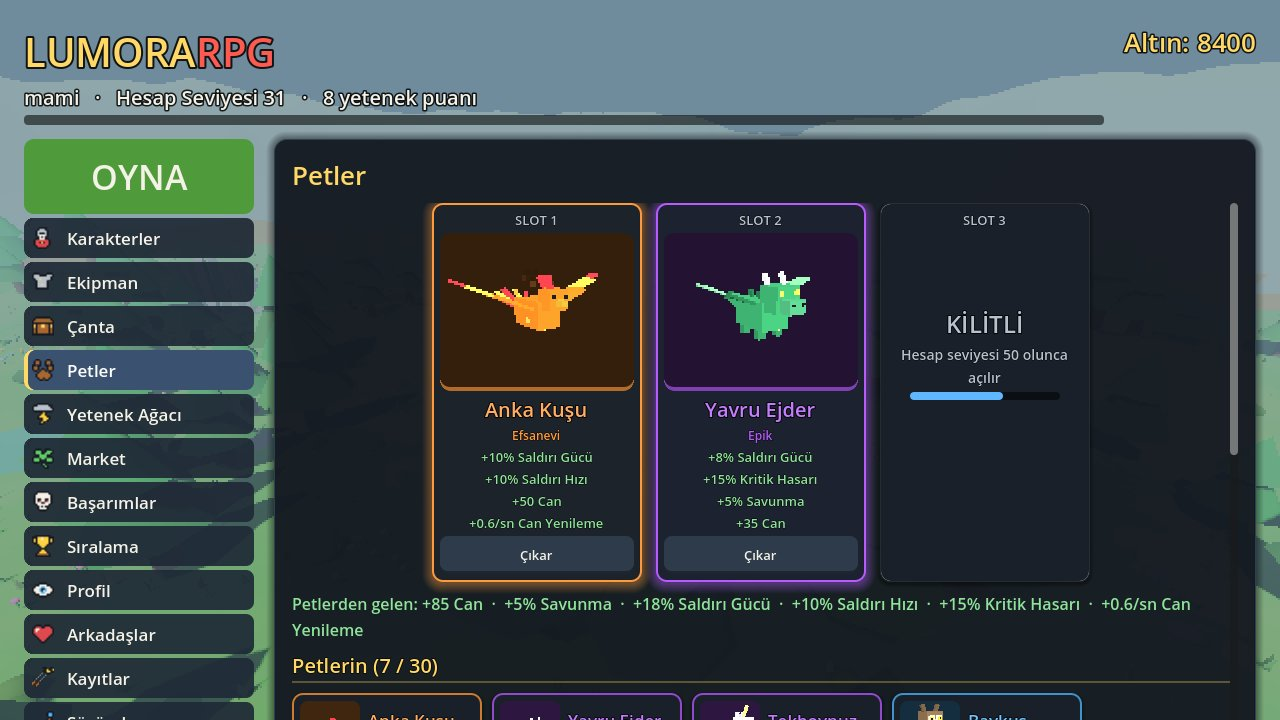
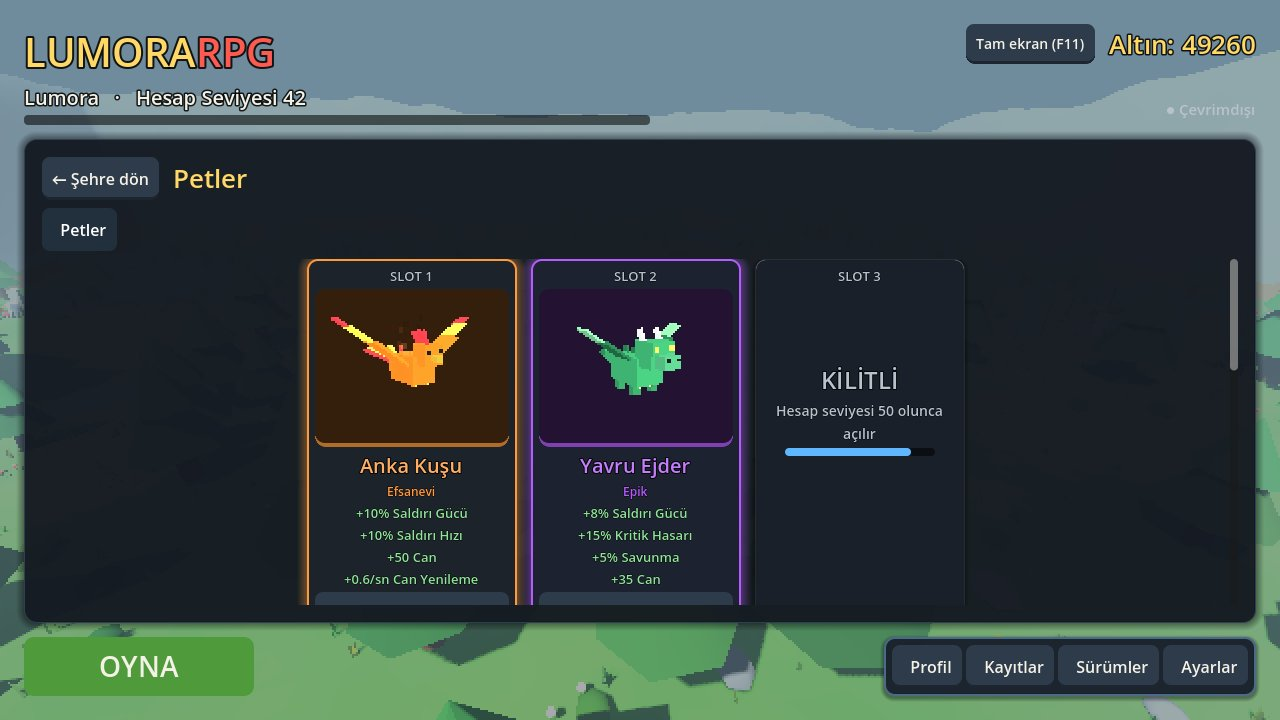
README: v0.66 özellikleri ve yeni ekran görüntüleri

diff --git a/README.md b/README.md
@@ -27,60 +27,85 @@ Bir karakter seçip açık bir haritaya iniyorsun; canavarlar her yönden gelir,
 ## Ekran görüntüleri
 
 <p align="center">
-  <img src="docs/screenshots/oyun.jpg" alt="Oyun içi: büyücü, petler ve seviye kartları" width="100%">
+  <img src="docs/screenshots/sehir.jpg" alt="Ana menü: binalarıyla pikselli şehir" width="100%">
 </p>
 
 <p align="center">
-  <img src="docs/screenshots/yetenek-agaci.jpg" alt="Ortadan dallanan yetenek ağacı" width="49%">
-  <img src="docs/screenshots/taverna.jpg" alt="Oda: tavernada oturan oyuncular" width="49%">
+  <img src="docs/screenshots/suru.jpg" alt="Karlı Dağlar'da oyuncuyu halka halinde kuşatan kurt sürüsü" width="49%">
+  <img src="docs/screenshots/oyun.jpg" alt="Oyun içi: büyücü, dönen kılıçlar ve seviye kartları" width="49%">
 </p>
 
 <p align="center">
-  <img src="docs/screenshots/petler.jpg" alt="Pet slotları" width="49%">
-  <img src="docs/screenshots/pet-listesi.jpg" alt="Pet listesi" width="49%">
+  <img src="docs/screenshots/taverna-bahce.jpg" alt="Gök Tulpar'la taverna bahçesi" width="49%">
+  <img src="docs/screenshots/taverna-ic.jpg" alt="Gezilebilir taverna içi" width="49%">
 </p>
 
 <p align="center">
+  <img src="docs/screenshots/yetenek-agaci.jpg" alt="Dört dallı yetenek ağacı" width="49%">
+  <img src="docs/screenshots/ekipman.jpg" alt="Ekipman ve karakter önizlemesi" width="49%">
+</p>
+
+<p align="center">
+  <img src="docs/screenshots/canta.jpg" alt="Çanta ve kasalar" width="32%">
+  <img src="docs/screenshots/petler.jpg" alt="Pet slotları" width="32%">
   <img src="docs/screenshots/siralama.jpg" alt="Sıralama" width="32%">
-  <img src="docs/screenshots/karakterler.jpg" alt="Karakterler" width="32%">
-  <img src="docs/screenshots/canta.jpg" alt="Çanta" width="32%">
 </p>
 
-<p align="center"><sub>Oyun içi · Yetenek ağacı · Taverna (oda) · Pet slotları ve pet listesi · Sıralama · Karakterler · Çanta. Görüntüler örnek verilerle çekildi.</sub></p>
+<p align="center"><sub>Şehir menüsü · Sürü halkası ve seviye kartları · Taverna bahçesi ve içi · Yetenek ağacı · Ekipman · Çanta · Petler · Sıralama. Görüntüler örnek verilerle çekildi.</sub></p>
 
 ## Özellikler
 
 ### Oynanış
-- **Rastgele haritalar:** Sakin Orman, Sahil Kasabası ve Ölümcül Zindan; her oyun birinde başlar.
-- **Kendiliğinden saldırı:** menzil çemberine giren en yakın canavar vurulur. Sınıf silahının yanında 5 silaha kadar taşınır (Dönen Kılıçlar, Ateş Topu, Yıldırım, Kutsal Alan ve sınıfa özel skill), her biri 5 seviye.
+- **5 harita:** Sakin Orman, Sahil Kasabası, Karlı Dağlar, Yakıcı Çöl ve Ölümcül Zindan; her oyun rastgele birinde başlar. Karlı Dağlar ve Yakıcı Çöl'ün kendi canavarları ve boss'u var.
+- **Kendiliğinden saldırı:** menzil çemberine giren en yakın canavar vurulur. Sınıf silahının yanında 5 silaha kadar taşınır, her biri 5 seviye.
+- **Silah evrimi:** en üst seviyedeki silah, eşleşen güçlendirmeyle yeni adı ve rengiyle çok daha güçlü bir silaha dönüşür.
 - **Seviye kartları:** her seviyede oyun durmadan 3 kart açılır (1 · 2 · 3 ya da tıklayarak); güçlendirmeler o oyun boyunca geçerlidir.
-- **Canavarlar zamanla değişir:** balçık, hızlı kurt, taş atan goblin ve dev örümcek; sayıları ve güçleri artar.
-- **Boss'lar:** her 5 dakikada Orman Devi ya da Örümcek Kraliçe. Saldırılarını yerde kırmızı alanla gösterirler, canları azaldıkça öfkelenip yeni saldırılar açarlar.
+- **Sürüler:** canavarlar başta az ve zayıftır, zamanla 400'ü aşar. Arada tek cins dev bir sürü gelir ve oyuncunun çevresini kapalı bir halka halinde sarar.
+- **Boss'lar:** her 5 dakikada bir; saldırılarını yerde kırmızı alanla gösterir, canları azaldıkça öfkelenip yeni saldırılar açar ve her hamleyi vücutlarıyla yaparlar.
+- **Zindan kapıları:** tur içinde açılan mor kapıdan girip mini boss'u 60 saniyede yenersen altın ve kasa kazanırsın.
+- **Gece, gündüz ve hava:** 5 dakikalık gün döngüsü; gece canavarlar daha serttir. Yağmur, fırtına ve sis gelir.
+- **Kabus zorluğu:** hesap seviyesi 8, 16 ve 25'te açılan Kabus I-III; daha sert canavarlar, 2-5 kat ödül.
 - **Ulti (R / Q):** her sınıfın iki ultisi var, haritadaki tüm düşmanlara vurur.
 
-### Karakterler, eşyalar ve kasalar
-- Hesapta 4 karaktere kadar: **Savaşçı**, **Okçu**, **Büyücü**, **Gölge**.
-- 6 nadirlik (Sıradan → Tanrısal) ve 6 ekipman yuvası; takılan eşyalar karakterin üstünde görünür.
-- **Ortak çanta:** slota ve nadirliğe göre filtre, her zaman nadirliğe göre sıralı; başka karakterin taktığı eşyalar en sonda. Üstüne gelince özellikler, takılı eşyayla karşılaştırmalı görünür.
-- **Kasalar:** boss'lar kasa bırakır, Market'ten de alınır; çark dönüp kazandığın eşyada durur.
+### Şehir menüsü
+- Ana menü, gerçek saate göre gün doğumu ve gece yaşayan pikselli bir kasaba: halk yollarda yürür, çeşme akar, bacalar tüter, geceleri lambalar yanar.
+- Her menü bir binada: Yetenek Kulesi, Pet Barınağı, Lonca Binası, Şeref Salonu, Dünya Bossu, Görev Meydanı, Taverna, Dostlar Evi, Ahır, Kuyumcu, Kahramanlar Evi, Zırh Atölyesi, Terzi, Pazar ve Savaş Kapısı.
 
-### Petler
-- Yumurtadan çıkan **9 pet**, 4 nadirlikte: Ayı, Tilki, Kurbağa (Sıradan); Minotor, Baykuş, Kaplumbağa (Nadir); Tekboynuz, Yavru Ejder (Epik); Anka Kuşu (Efsanevi).
-- Hesap seviyesi 10, 25 ve 50'de açılan 3 slot; slottaki petler statlarını verir ve oyunda küçük hâlleriyle seni takip eder (uçanlar üstünde süzülür).
-- **Pet Koleksiyonu:** tüm petler nadirliğe göre; bulunanlar renkli, bulunmayanlar gri.
+### Karakterler, eşyalar ve kasalar
+- Hesapta 5 karaktere kadar: **Savaşçı**, **Okçu**, **Büyücü**, **Gölge** ve takımını iyileştiren **Şifacı**.
+- 6 nadirlik (Sıradan → Tanrısal) ve 6 ekipman yuvası; takılan eşyalar karakterin üstünde görünür.
+- **Demirci:** eşyayı +5'e kadar geliştir. **Taşlar:** nadir eşyalardaki 1-3 sokete ateş, buz, zehir, fırtına ve can taşı tak.
+- **Ortak çanta:** slota ve nadirliğe göre filtre; üstüne gelince özellikler takılı eşyayla karşılaştırmalı görünür.
+- **Kasalar:** boss'lar kasa bırakır, Pazar'dan da alınır; çark dönüp kazandığın eşyada durur.
+- **Gardırop:** sadece görünüş için giysiler ve boyalar, almadan önce üstünde denenir.
+
+### Petler ve binekler
+- Yumurtadan çıkan **9 pet**, 4 nadirlikte (Ayı'dan Anka Kuşu'na). Hesap seviyesi 10, 25 ve 50'de açılan 3 slot; slottaki petler stat verir ve oyunda seni takip eder. Pet Koleksiyonu bulunanları gösterir.
+- **Ahır:** Kır At, Kurt Dostu, Kum Kaplanı ve kanatlı Gök Tulpar. Tavernada bineğinle hızlı gezersin, C ile inip binersin.
 
 ### Yetenek ağacı
-- Ortada **Lumora Kalbi**, etrafına dört dal açılır; her dalın kendi rengi var: **Saldırı**, **Savunma**, **Talih** ve oyun dışı **Hazine** (çanta yeri, kasa şansı, market indirimi, satış fiyatı, eşya düşme şansı, yumurta şansı).
-- Her hesap seviyesi 2 yetenek puanı verir; dışa doğru yetenekler daha çok puan ister. İstediğin zaman sıfırlanır.
+- Ortada **Lumora Kalbi**, etrafında dört dal: **Saldırı**, **Savunma**, **Talih** ve oyun dışı **Hazine**. Toplam 61 yetenek, her dalın sonunda güçlü bir son yetenek.
+- Her hesap seviyesi 2 puan verir; dışa doğru yetenekler daha çok puan ister. Sürükleyerek gezilir, tekerlekle yakınlaşır, istediğin zaman sıfırlanır.
+
+### Taverna
+- İçinde ve bahçesinde gezdiğin 3D bir taverna: masalara otur, salıncakta sallan, dans pistinde dans et, sohbet balonlarıyla yaz (Enter).
+- Bahçede kamp ateşi, dilek kuyusu, gölet ve **balık tutma** (E); tuttuğun balığı Mutfak'ta pişirip bir sonraki tura güç olarak yersin.
+- **Parkur:** kontrol noktalı bir parkur, en hızlı on süre ve altın ödülü.
+- **Zar ve kart:** yakındaki oyuncuya G ile altın bahisli oyun öner; zarlar ve kartlar masaya uçar.
 
 ### Çevrimiçi
-- **Hesaplar:** kullanıcı adı ve şifreyle; oyunun sunucuda saklanır, her bilgisayardan aynı hesapla girersin. "Beni hatırla" ile şifre sorulmaz.
-- **Taverna odası:** oda kur, arkadaşını davet et ya da 5 harfli kodu ver (en fazla 4 kişi). Odadakiler tavernada masaya oturur; biri katılınca karakteri kapıdan girip boş sandalyeye oturur. Ev sahibi OYNA'ya basınca herkes aynı haritada canlı oynar.
-- **Sıralamalar:** hesap seviyesi, canavar kesme, boss yenme, karakter seviyesi, hayatta kalma süresi, verilen hasar ve kazanılan altın.
-- **Arkadaşlar:** çevrimiçi durumu ve adının yanında hesap seviyesi; şu an çevrimiçi olanlar listesi.
+- **Hesaplar:** kullanıcı adı ve şifreyle; kaydın sunucuda saklanır, her cihazdan aynı hesapla girersin. "Beni hatırla" ile şifre sorulmaz.
+- **Co-op:** oda kur, arkadaşını davet et ya da 5 harfli kodu ver (en fazla 4 kişi); ev sahibi OYNA'ya basınca herkes aynı haritada canlı oynar.
+- **Düello:** sunucunun güçlere göre oynattığı Düello Arenası ve 1'e 1 gerçek zamanlı PvP.
+- **Loncalar:** lonca kur ya da katıl; lonca sohbeti, haftalık ortak hedef, kasaya bağış ve 5 seviyeli lonca yükseltmeleri.
+- **Haftalık dünya bossu:** tüm sunucunun ortak canlı dev boss'u; verdiğin hasar payına göre altın.
+- **Ticaret, sıralamalar ve arkadaşlar:** eşyayı altına takas et; 7 kategoride sıralama; arkadaşların çevrimiçi durumu ve seviyesi.
 
 ### Diğer
-- 24 başarım (altın ödüllü), son 50 oyunun kayıtları, sürüm notları, grafik/kamera/arayüz ayarları.
+- Günlük 3 görev ve 7 günlük giriş ödülü takvimi.
+- 48 başarım (altın ödüllü), son 50 oyunun kayıtları, sürüm notları.
+- Ses ve müzik (ayrı ayarlanır), grafik/kamera/arayüz ayarları, tam ekran (F11).
+- Telefon ve tablette dokunmatik kontroller (yürüme çubuğu, kamera, ULTİ ve ZIPLA düğmeleri).
 - Windows sürümü her açılışta kendini günceller (sadece küçük oyun paketini indirir).
 
 ## Kontroller
@@ -94,6 +119,11 @@ Bir karakter seçip açık bir haritaya iniyorsun; canavarlar her yönden gelir,
 | 1 · 2 · 3 | Seviye kartı seç |
 | R / Q | Ulti |
 | Esc / P | Duraklat (devam, kalite, ana menü, boostlar) |
+| F11 | Tam ekran |
+| E | Tavernada otur, sallan, dans et, balık tut |
+| C | Tavernada bineğinden in / bin |
+| G | Tavernada zar ya da kart oyunu öner |
+| Enter | Tavernada sohbet |
 | F1 | Geliştirici menüsü (yalnızca Ayarlar'da gizli kod girilen hesapta) |
 
 ## Nasıl çalışır

diff --git a/README.en.md b/README.en.md
@@ -27,60 +27,85 @@ You pick a character and drop onto an open map. Monsters come from every side, y
 ## Screenshots
 
 <p align="center">
-  <img src="docs/screenshots/oyun.jpg" alt="In a run: a mage, pets and level-up cards" width="100%">
+  <img src="docs/screenshots/sehir.jpg" alt="Main menu: a pixel town with its buildings" width="100%">
 </p>
 
 <p align="center">
-  <img src="docs/screenshots/yetenek-agaci.jpg" alt="Skill tree growing out from the middle" width="49%">
-  <img src="docs/screenshots/taverna.jpg" alt="Room: players sitting in the tavern" width="49%">
+  <img src="docs/screenshots/suru.jpg" alt="A wolf swarm closing a ring around the player in the Snowy Mountains" width="49%">
+  <img src="docs/screenshots/oyun.jpg" alt="In a run: a mage, spinning swords and level-up cards" width="49%">
 </p>
 
 <p align="center">
-  <img src="docs/screenshots/petler.jpg" alt="Pet slots" width="49%">
-  <img src="docs/screenshots/pet-listesi.jpg" alt="Pet list" width="49%">
+  <img src="docs/screenshots/taverna-bahce.jpg" alt="The tavern garden on a winged mount" width="49%">
+  <img src="docs/screenshots/taverna-ic.jpg" alt="Inside the walkable tavern" width="49%">
 </p>
 
 <p align="center">
+  <img src="docs/screenshots/yetenek-agaci.jpg" alt="Skill tree with four branches" width="49%">
+  <img src="docs/screenshots/ekipman.jpg" alt="Equipment and character preview" width="49%">
+</p>
+
+<p align="center">
+  <img src="docs/screenshots/canta.jpg" alt="Backpack and chests" width="32%">
+  <img src="docs/screenshots/petler.jpg" alt="Pet slots" width="32%">
   <img src="docs/screenshots/siralama.jpg" alt="Leaderboard" width="32%">
-  <img src="docs/screenshots/karakterler.jpg" alt="Characters" width="32%">
-  <img src="docs/screenshots/canta.jpg" alt="Backpack" width="32%">
 </p>
 
-<p align="center"><sub>In a run · Skill tree · Tavern (room) · Pet slots and pet list · Leaderboard · Characters · Backpack. Taken with sample data.</sub></p>
+<p align="center"><sub>Town menu · Swarm ring and level-up cards · Tavern garden and inside · Skill tree · Equipment · Backpack · Pets · Leaderboard. Taken with sample data.</sub></p>
 
 ## Features
 
 ### Gameplay
-- **Random maps:** Calm Forest, Beach Town and Deadly Dungeon; every run starts on one of them.
-- **Auto attack:** the nearest monster inside your range ring gets hit. Next to the class weapon you can carry up to 5 weapons (spinning blades, fireball, lightning, holy ground and a class skill), each with 5 levels.
+- **5 maps:** Calm Forest, Beach Town, Snowy Mountains, Scorching Desert and Deadly Dungeon; every run starts on a random one. The mountains and the desert have their own monsters and boss.
+- **Auto attack:** the nearest monster inside your range ring gets hit. Next to the class weapon you can carry up to 5 weapons, each with 5 levels.
+- **Weapon evolution:** a maxed weapon plus its matching boost turns into a much stronger weapon with a new name and colour.
 - **Level-up cards:** every level shows 3 cards without pausing the game (1 · 2 · 3 or click); boosts last for the run.
-- **Monsters change over time:** slimes, fast wolves, rock-throwing goblins and giant spiders, growing in number and strength.
-- **Bosses:** every 5 minutes the Forest Giant or the Spider Queen. They mark their attacks with red zones on the ground and get angrier, with new attacks, as their health drops.
+- **Swarms:** monsters start few and weak and grow past 400. Now and then a huge pack of one kind arrives and closes a ring around the player.
+- **Bosses:** every 5 minutes. They mark attacks with red zones on the ground, get angrier with new attacks as their health drops, and swing their whole body into each move.
+- **Dungeon gates:** step into a purple gate that opens during a run and beat its mini boss in 60 seconds for gold and a chest.
+- **Day, night and weather:** a 5-minute day cycle with tougher monsters at night, plus rain, storms and fog.
+- **Nightmare difficulty:** Nightmare I-III unlock at account level 8, 16 and 25; tougher monsters, 2-5x rewards.
 - **Ultimate (R / Q):** each class has two, hitting every enemy on the map.
 
-### Characters, items and chests
-- Up to 3 characters per account: **Warrior**, **Archer**, **Mage**.
-- 6 rarities (Common → Divine) and 6 equipment slots; worn gear shows on the character.
-- **Shared backpack:** filter by slot and rarity, always sorted by rarity, with items another character wears at the end. Hovering an item shows its stats compared with what you wear.
-- **Chests:** bosses drop them and the market sells them; a wheel spins and stops on your prize.
+### Town menu
+- The main menu is a living pixel town that follows the real clock from sunrise to night: people walk the paths, the fountain runs, chimneys smoke and lamps light up after dark.
+- Every menu lives in a building: Skill Tower, Pet Shelter, Guild Hall, Hall of Fame, World Boss, Quest Square, Tavern, Friends' House, Stable, Jeweler, Heroes' House, Armory, Tailor, Bazaar and War Gate.
 
-### Pets
-- **9 pets** from eggs, in 4 rarities: Bear, Fox, Frog (Common); Minotaur, Owl, Turtle (Rare); Unicorn, Baby Dragon (Epic); Phoenix (Legendary).
-- 3 slots opening at account levels 10, 25 and 50; pets in slots give their stats and follow you in runs at a small, cute size (flyers hover above you).
-- **Pet collection:** every pet, rarest first; the ones you have found in color, the rest gray.
+### Characters, items and chests
+- Up to 5 characters per account: **Warrior**, **Archer**, **Mage**, **Shadow** and the team-healing **Healer**.
+- 6 rarities (Common → Divine) and 6 gear slots; worn gear shows on the character.
+- **Blacksmith:** upgrade an item up to +5. **Gems:** put fire, ice, poison, storm and life gems into 1-3 sockets on rare gear.
+- **Shared backpack:** filter by slot and rarity; hovering shows stats compared with the worn item.
+- **Chests:** bosses drop them and the Bazaar sells them; a wheel spins and stops on your prize.
+- **Wardrobe:** cosmetic outfits and dyes you can try on before buying.
+
+### Pets and mounts
+- **9 pets** hatched from eggs in 4 rarities (from the Bear to the Phoenix). 3 slots open at account level 10, 25 and 50; slotted pets give stats and follow you in runs. The Pet Collection shows what you have found.
+- **Stable:** Grey Horse, Wolf Companion, Sand Tiger and the winged Sky Tulpar. Ride fast around the tavern and press C to get off or back on.
 
 ### Skill tree
-- **Lumora's Heart** in the middle with four branches around it, each in its own color: **Offense**, **Defense**, **Fortune** and the out-of-run **Treasury** (backpack space, chest luck, market discount, sell price, item drop chance, egg luck).
-- Every account level gives 2 skill points; skills further out cost more. Reset any time.
+- The **Heart of Lumora** in the middle opens four branches: **Attack**, **Defense**, **Fortune** and the out-of-run **Treasure**. 61 skills in total, with a strong final skill at the end of each branch.
+- Every account level gives 2 points; outer skills cost more. Drag to move around, use the wheel to zoom, reset any time.
+
+### Tavern
+- A 3D tavern you walk around inside and out: sit at tables, swing, dance, and chat with speech bubbles (Enter).
+- The garden has a campfire, a wishing well, a pond and **fishing** (E); cook your catch in the Kitchen and eat it for a boost in the next run.
+- **Parkour:** a course with checkpoints, a top-ten board and gold rewards.
+- **Dice and cards:** press G to offer a gold bet to someone nearby; dice and cards fly onto the table.
 
 ### Online
-- **Accounts:** username and password; your game is stored on the server so the same account works on any computer. "Remember me" skips the password.
-- **Tavern room:** open a room, invite a friend or share the 5-letter code (up to 4 players). Everyone in the room sits at the tavern table; when someone joins, their character walks in through the door and takes a free chair. When the host presses PLAY, everyone plays live on the same map.
-- **Leaderboards:** account level, monsters killed, bosses beaten, character level, survival time, damage dealt and gold earned.
-- **Friends:** online status and account level next to each name, plus a list of everyone online now.
+- **Accounts:** username and password; your save lives on the server, so you play the same account from any device. "Remember me" skips the password.
+- **Co-op:** create a room, invite a friend or share the 5-letter code (up to 4 players); when the host presses PLAY everyone plays live on the same map.
+- **Duels:** the Duel Arena, played out by the server from both characters' stats, and real-time 1v1 PvP.
+- **Guilds:** create or join one; guild chat, a weekly shared goal, donations and 5-level guild upgrades.
+- **Weekly world boss:** one giant boss with health shared by the whole server; gold by your share of the damage.
+- **Trade, leaderboards and friends:** trade items for gold; leaderboards in 7 categories; friends' online status and level.
 
 ### More
-- 24 achievements with gold rewards, logs of the last 50 runs, version notes, graphics/camera/interface settings.
+- 3 daily quests and a 7-day login reward calendar.
+- 48 achievements with gold rewards, logs of the last 50 runs, version notes.
+- Sound and music (set separately), graphics/camera/interface settings, full screen (F11).
+- Touch controls on phones and tablets (move stick, camera drag, ULT and JUMP buttons).
 - The Windows build updates itself on every start (it only downloads the small game pack).
 
 ## Controls
@@ -94,6 +119,11 @@ You pick a character and drop onto an open map. Monsters come from every side, y
 | 1 · 2 · 3 | Pick a level-up card |
 | R / Q | Ultimate |
 | Esc / P | Pause (resume, quality, main menu, boosts) |
+| F11 | Full screen |
+| E | In the tavern: sit, swing, dance, fish |
+| C | In the tavern: get off / on your mount |
+| G | In the tavern: offer a dice or card game |
+| Enter | In the tavern: chat |
 | F1 | Developer menu (only on an account that entered the secret code in Settings) |
 
 ## How it works
